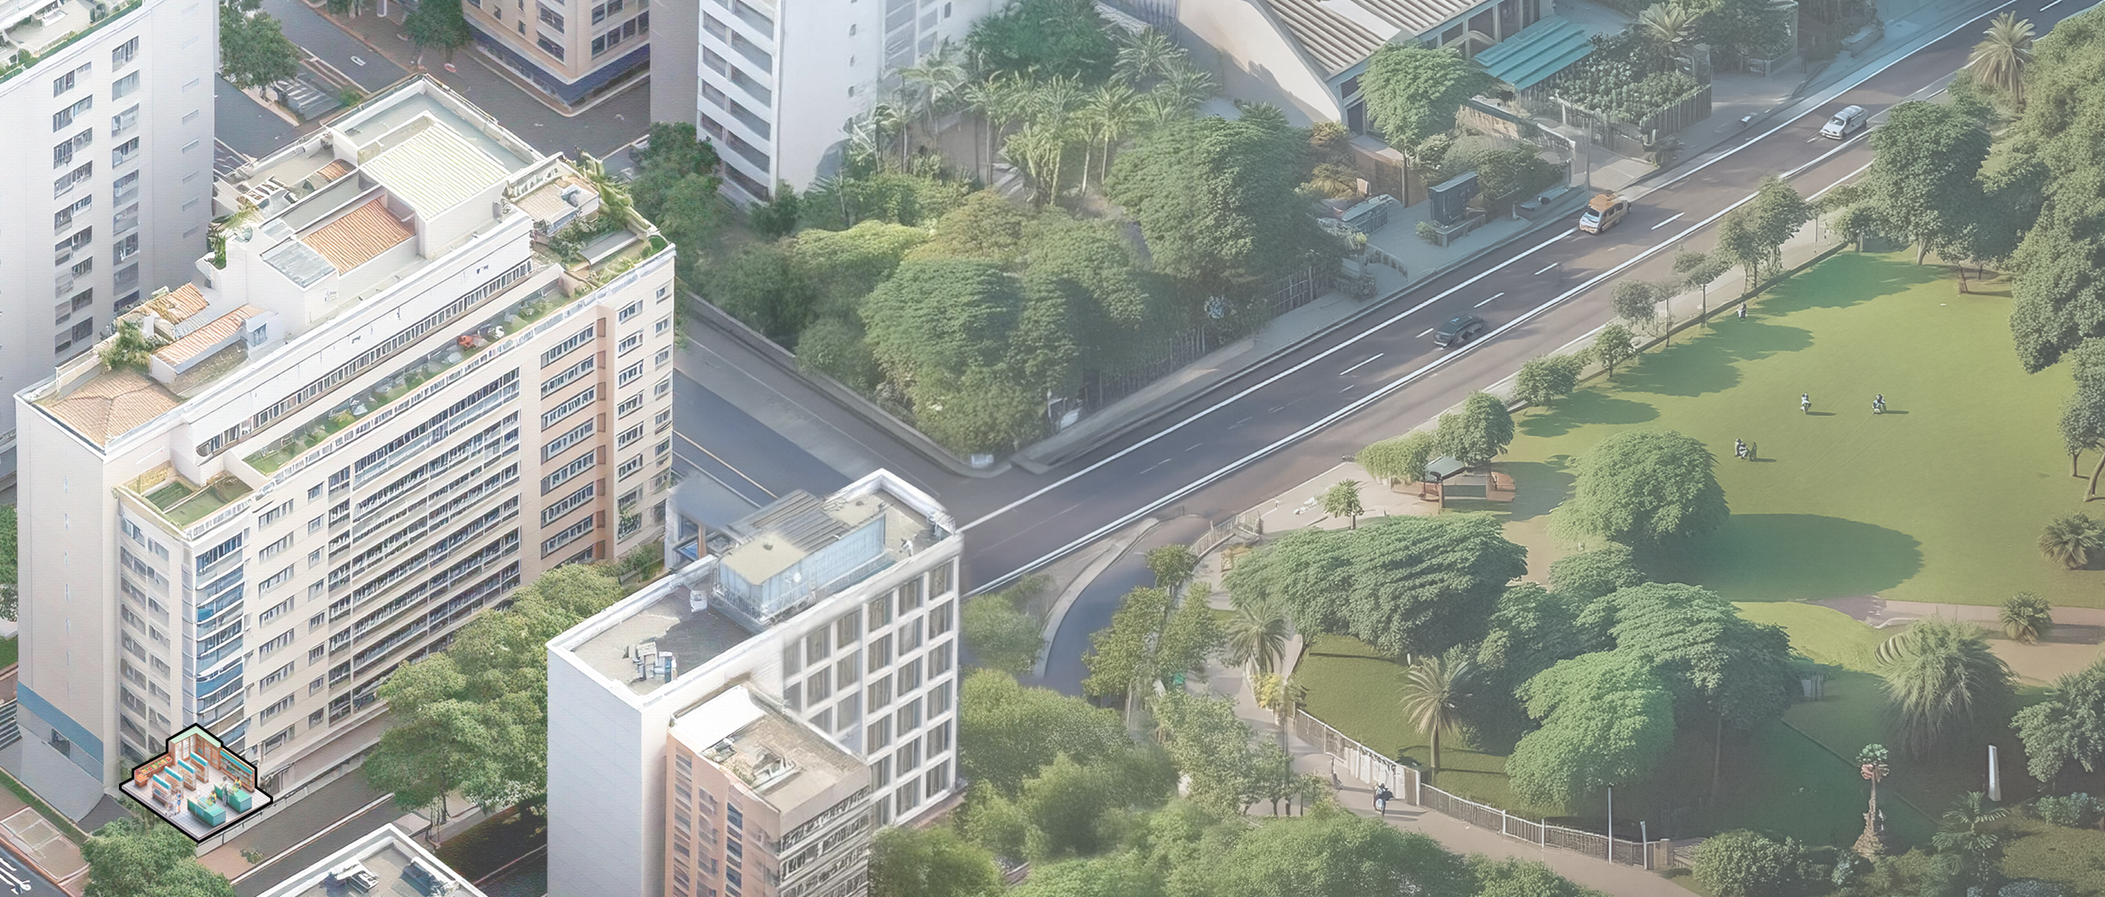
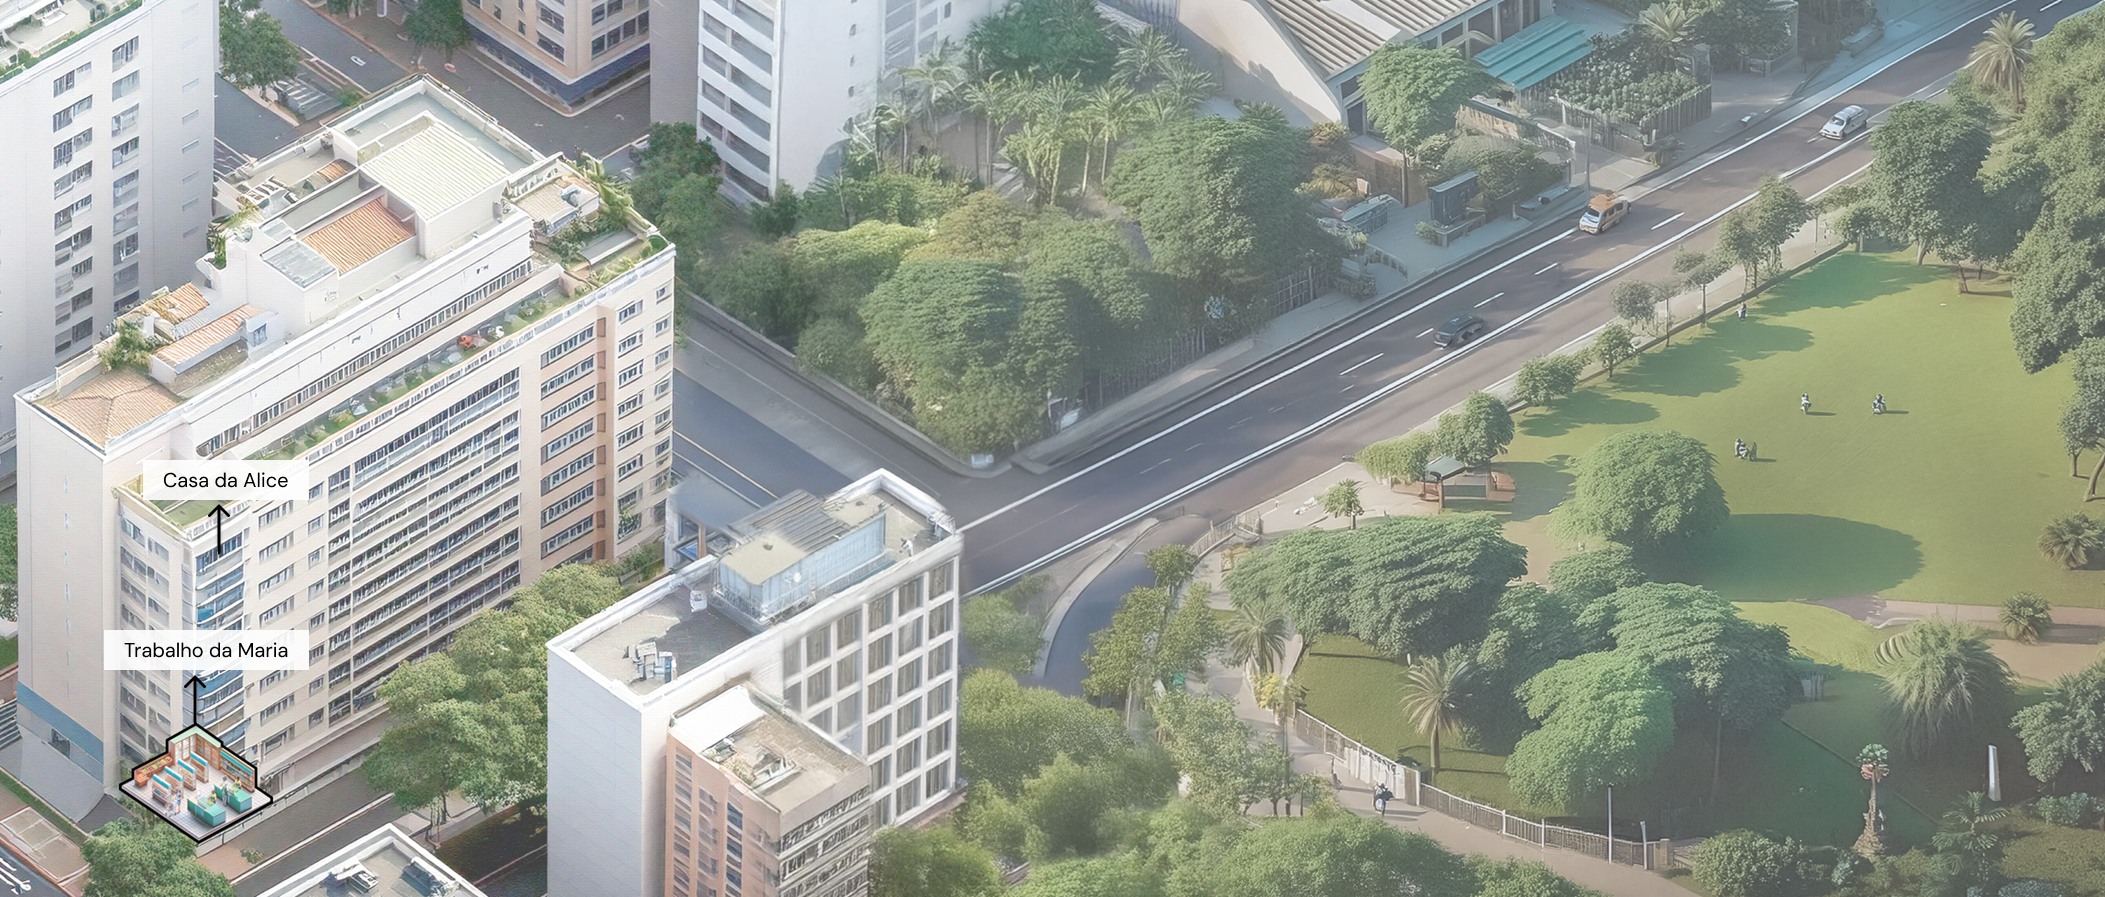
refactor: update text content for clarity in supermercado-section component and replace images with new versions

Changed region(s): [[0.0309, 0.6867, 0.1544, 0.7492], [0.0618, 0.4994, 0.1544, 0.5931]]

diff --git a/src/app/(app)/historias/(stories)/desigualdades-em-saude-sp/components/supermercado-section.tsx b/src/app/(app)/historias/(stories)/desigualdades-em-saude-sp/components/supermercado-section.tsx
@@ -358,7 +358,7 @@ export default function SupermercadoSection() {
       top: 300,
       text: (
         <>
-          Se dona Alice morasse no Jardim Helena, a história poderia ser
+          Se Alice morasse no Jardim Helena, a história poderia ser
           diferente.{" "}
           <strong>
             Este estudo mostra que, em bairros periféricos como o de Maria, a
@@ -384,7 +384,7 @@ export default function SupermercadoSection() {
       top: 600,
       text: (
         <>
-          Enquanto Maria passa o dia trabalhando no mercado, dona Alice
+          Enquanto Maria passa o dia trabalhando no mercado, Alice
           aproveita sua manhã para caminhar em um parque próximo de sua casa.
           Uma pesquisa realizada nas cidades australianas de Sydney, Wollongong
           e Newcastle demonstrou que{" "}
